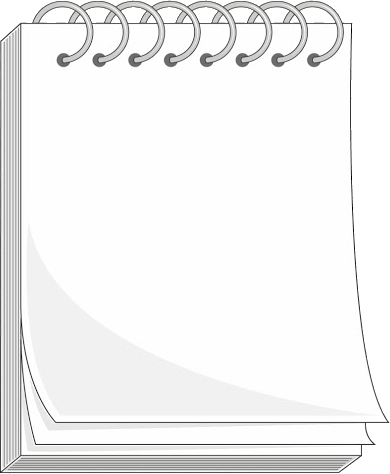
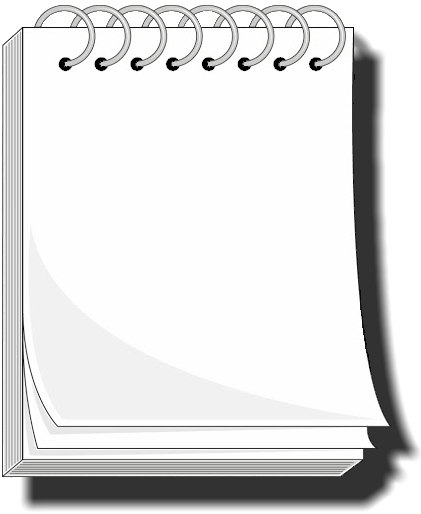
beginning work on the recipes pages

Changed region(s): [[0.0, 0.0, 1.0, 1.0]]

diff --git a/src/components/Pantry/Pantry.css b/src/components/Pantry/Pantry.css
@@ -6,7 +6,7 @@
 .Pantry_title {
     margin: 4vh;
     margin-bottom: 0vh;
-    margin-top: 5vh;
+    margin-top: 2vh;
     text-align: center;
     font-size: 10vw;
 }
@@ -29,6 +29,7 @@
     background-color: #F0EAD6;
     overflow: hidden;
     width: 17vh;
+    box-shadow: 10px 10px 10px black;
 }
 
 .Pantry .popupContainer {
@@ -38,7 +39,7 @@
 .Pantry_popup {
     z-index: 1;
     background-image: url('../../assets/pad.png');
-    background-size: 90% 100%;
+    background-size: 100% 100%;
     background-repeat: no-repeat;
     background-color: transparent;
     color: black;
@@ -47,9 +48,9 @@
     width: min-content;
     font-weight: bold;
     width: 90vw;
-    height: 61vh;
+    height: 70vh;
     top: -60vh;
-    left: 12vw;
+    left: 10vw;
     text-align: center;
 }
 
@@ -59,20 +60,21 @@
     border-radius: 50%;
     font-size: 3vh;
     position: absolute;
-    left: 6vw;
-    top: 3.5vh;
+    left: 7vw;
+    top: 5vh;
     box-shadow: -3px 0px 3px black;
 }
 
 .Pantry_list {
-    height: 70%;
-    width: 75%;
+    height: 65%;
+    width: 70%;
     overflow: scroll;
     background-color: transparent;
     border: none;
     margin-left: 15%;
     margin-right: auto;
     text-align: left;
+    list-style: none;
 }
 
 .Pantry_list li {
@@ -111,11 +113,12 @@
     background-color: #F0EAD6;
     padding: 5px;
     display: block;
-    margin-top: 2vh;
+    margin-top: 4vh;
     margin-left: auto;
     margin-right: auto;
     font-weight: bolder;
     width: 30vw;
+    box-shadow: 10px 10px 10px black;
 }
 
 /* iPhone X 375x812 Portrait */
@@ -141,7 +144,7 @@
         width: 16vh;
     }
 
-    .guest_recipes {
+    .recipes {
         width: 15vh;
     }
 
@@ -151,5 +154,6 @@
 
     .Pantry_popup .closePopup {
         width: fit-content;
+        top: 5vh;
     }
 }

diff --git a/src/components/Recipes/Recipes.css b/src/components/Recipes/Recipes.css
@@ -1,34 +1,48 @@
 .Recipes {
     text-align: center;
+    margin-left: auto;
+    margin-right: auto;
 }
 
 .Recipes_title {
     margin: 4vh;
-    text-align: justify;
+    margin-bottom: 2vh;
+    text-align: center;
+}
+
+.RecipesList_container {
+    background-image: url('../../assets/open_book.png');
+    background-size: 90% 90%;
+    background-repeat: no-repeat;
+    margin-left: auto;
+    margin-right: auto;
+    display: block;
+    width: 95vw;
+    height: 60vh;
+    padding: 2vh;
 }
 
 .RecipesList {
-    border: 5px solid black;
-    background-color: white;
-    border-radius: 15px;
-    width: 90vw;
-    margin-left: auto;
+    width: 85%;
+    margin-left: 4.5%;
     margin-right: auto;
-    margin-bottom: 20px;
-    height: 60vh;
+    margin-bottom: 1vh;
+    margin-top: .5vh;
+    height: 49vh;
     overflow: scroll;
     padding: 1vh;
+    padding-left: 11vw;
     font-weight: bolder;
+    border-radius: 15px;
 }
 
-.toIngredients {
-    height: 50px;
-    font-size: 30px;
+.Recipes .ingredients {
+    border: 5px solid black;
     border-radius: 15px;
-    background-color: #2ecc71;
-    border-style: none;
-    padding: 5px;
-    text-decoration: none;
-    color: black;
-    text-align: center;
+    background-color: white;
+    padding: 10px;
+    display: block;
+    margin-left: auto;
+    margin-right: auto;
+    font-weight: bolder;
 }

diff --git a/src/components/GuestRecipes/GuestRecipes.js b/src/components/GuestRecipes/GuestRecipes.js
@@ -2,7 +2,7 @@ import React from 'react';
 
 import RecipeCard from '../RecipeCard/RecipeCard';
 
-import './GuestRecipes.css';
+import '../Recipes/Recipes.css';
 
 import StoreContext from '../../StoreContext';
 
@@ -30,10 +30,12 @@ export default class GuestRecipes extends React.Component {
         return(
             <div className='Recipes'>
                 <h1 className='Recipes_title'>&nbsp;Let's see what you can make!</h1>
-                <ul className='RecipesList'>
-                    {this.renderRecipes()}
-                </ul>
-                <button className='guest_ingredients' onClick={this.handleIngredientsClick}>Ingredients</button>
+                <section className='RecipesList_container'>
+                    <ul className='RecipesList'>
+                        {this.renderRecipes()}
+                    </ul>
+                </section>
+                <button className='ingredients' onClick={this.handleIngredientsClick}>Ingredients</button>
             </div>
         );
     };

diff --git a/src/components/Recipes/Recipes.js b/src/components/Recipes/Recipes.js
@@ -1,7 +1,6 @@
 import React from 'react';
 
 import Error from '../Error/Error';
-
 import RecipeCard from '../RecipeCard/RecipeCard';
 
 import './Recipes.css';
@@ -29,9 +28,12 @@ export default class Recipes extends React.Component {
             return(
                 <div className='Recipes'>
                     <h1 className='Recipes_title'>&nbsp;Let's see what you can make!</h1>
-                    <ul className='RecipesList'>
-                        {this.renderRecipes()}
-                    </ul>
+                    <section className='RecipesList_container'>
+                        <ul className='RecipesList'>
+                            {this.renderRecipes()}
+                        </ul>
+                    </section>
+                    <button className='ingredients' onClick={this.handleIngredientsClick}>Ingredients</button>
                 </div>
             )
         } else {

diff --git a/src/components/GuestRecipes/GuestRecipes.css b/src/components/GuestRecipes/GuestRecipes.css
@@ -34,7 +34,7 @@
     text-align: center;
 }
 
-.guest_ingredients {
+.Recipes .ingredients {
     border: 5px solid black;
     border-radius: 15px;
     background-color: white;
